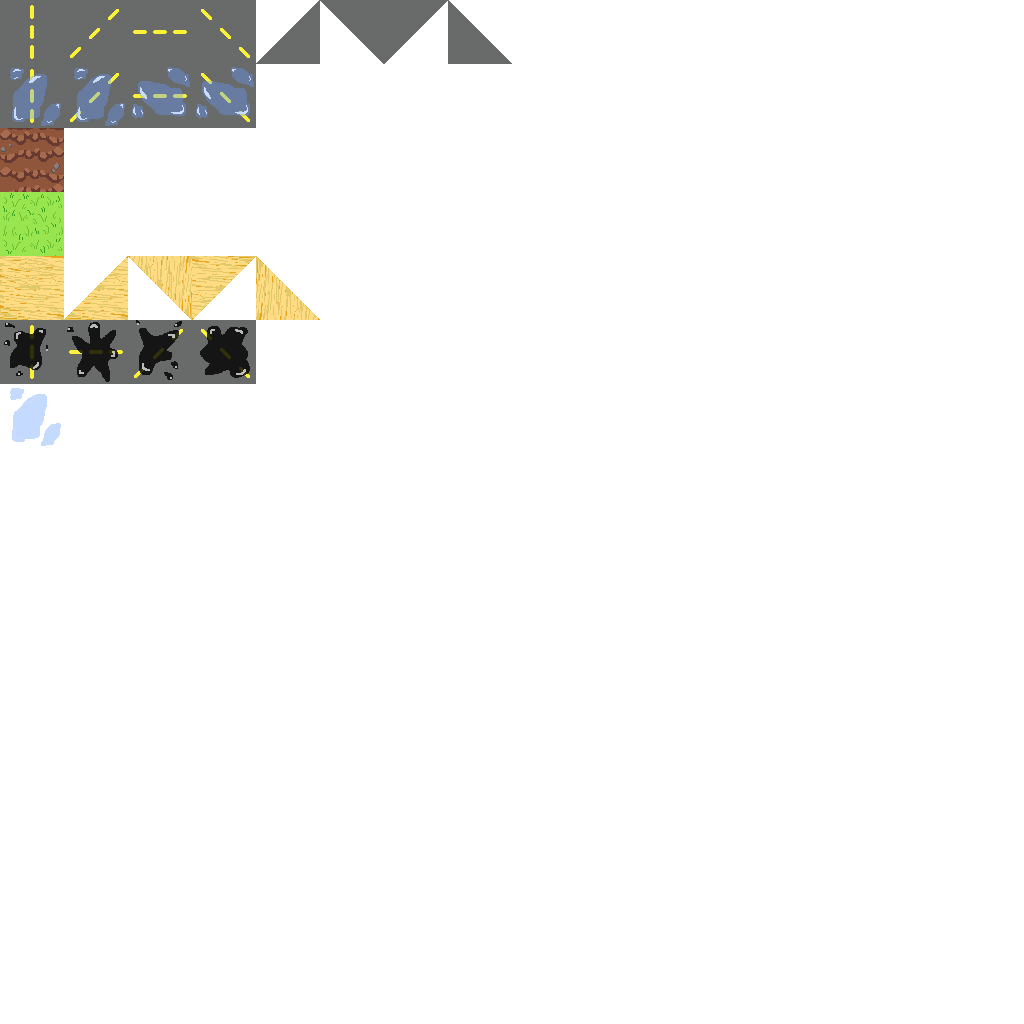
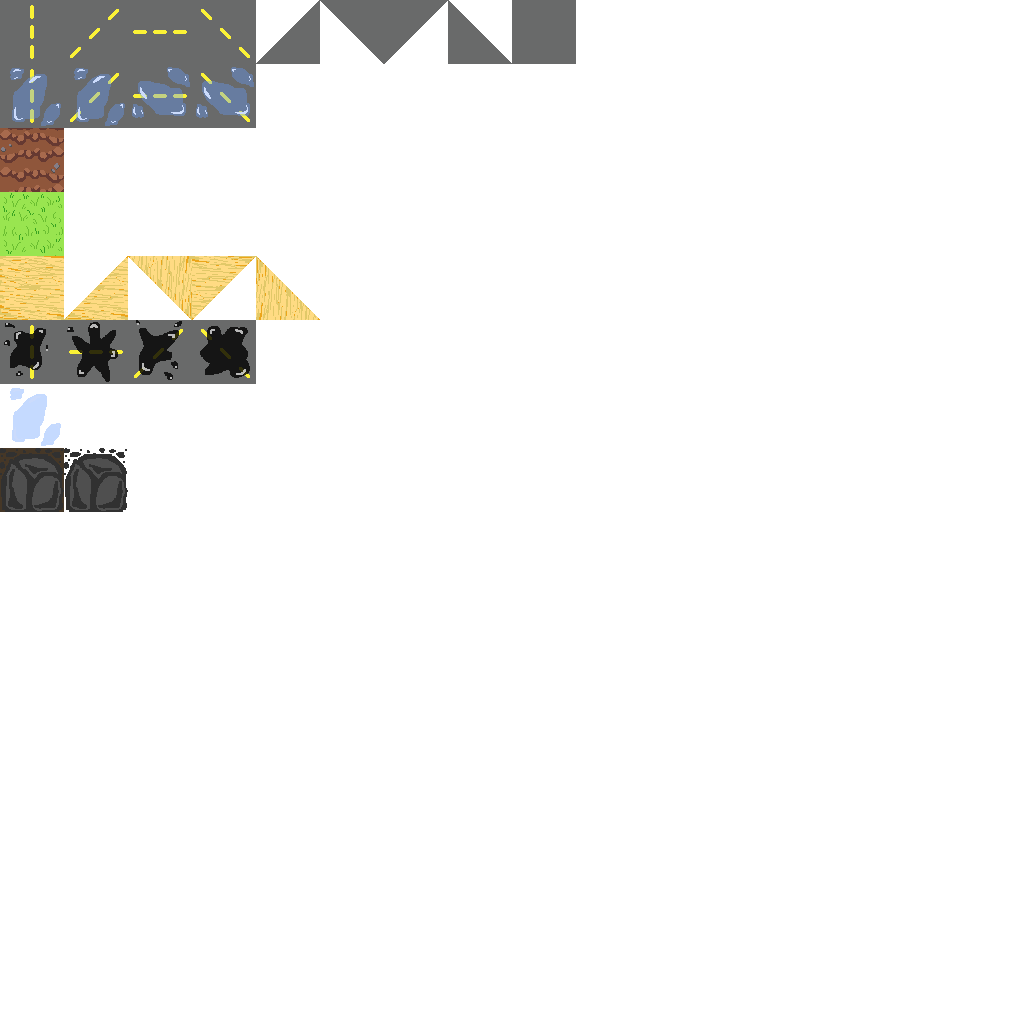
added large map, map parsing changes

Changed region(s): [[0.0, 0.4375, 0.125, 0.5], [0.5, 0.0, 0.5625, 0.0625]]

diff --git a/src/main.rs b/src/main.rs
@@ -44,7 +44,7 @@ fn main() {
         .add_plugins(ServerPlugin)
         .init_state::<GameState>()
         .insert_resource(ClearColor(Color::Srgba(Srgba::WHITE)))
-        .insert_resource(load_map_from_file("assets/map.txt")) // to get a Res handle on GameMap
+        .insert_resource(load_map_from_file("assets/big-map.txt")) // to get a Res handle on GameMap
         .add_systems(Startup, (camera_setup, setup_title_screen))
         .add_systems(OnEnter(GameState::Playing), (car_setup, spawn_map))
         .add_systems(Update, (

diff --git a/src/map.rs b/src/map.rs
@@ -82,7 +82,7 @@ pub fn load_map_from_file(filename: &str) -> GameMap {
             .trim()
             .split_whitespace()
             .filter(|s| !s.is_empty()) // filter to handle potential extra spaces
-            .map(|n| n.parse().unwrap_or(255))
+            .map(|s| u8::from_str_radix(s, 16).unwrap()) // changing this to interpet HEX
             .collect();
         
         // avoid adding empty rows if the line was blank
